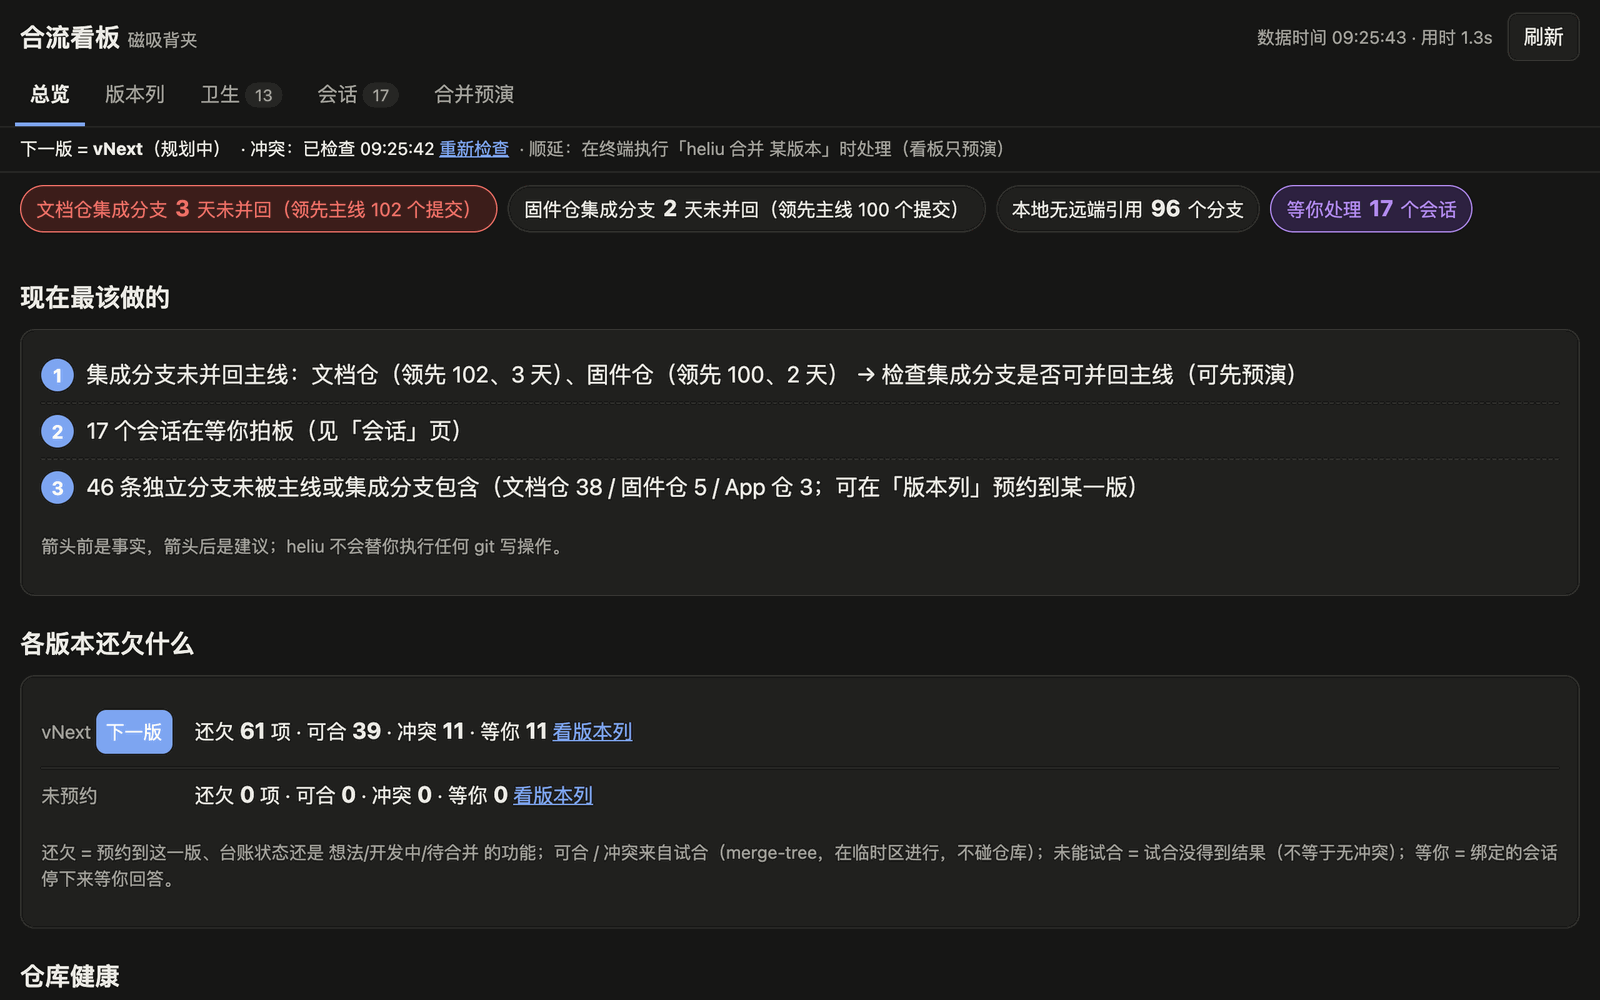
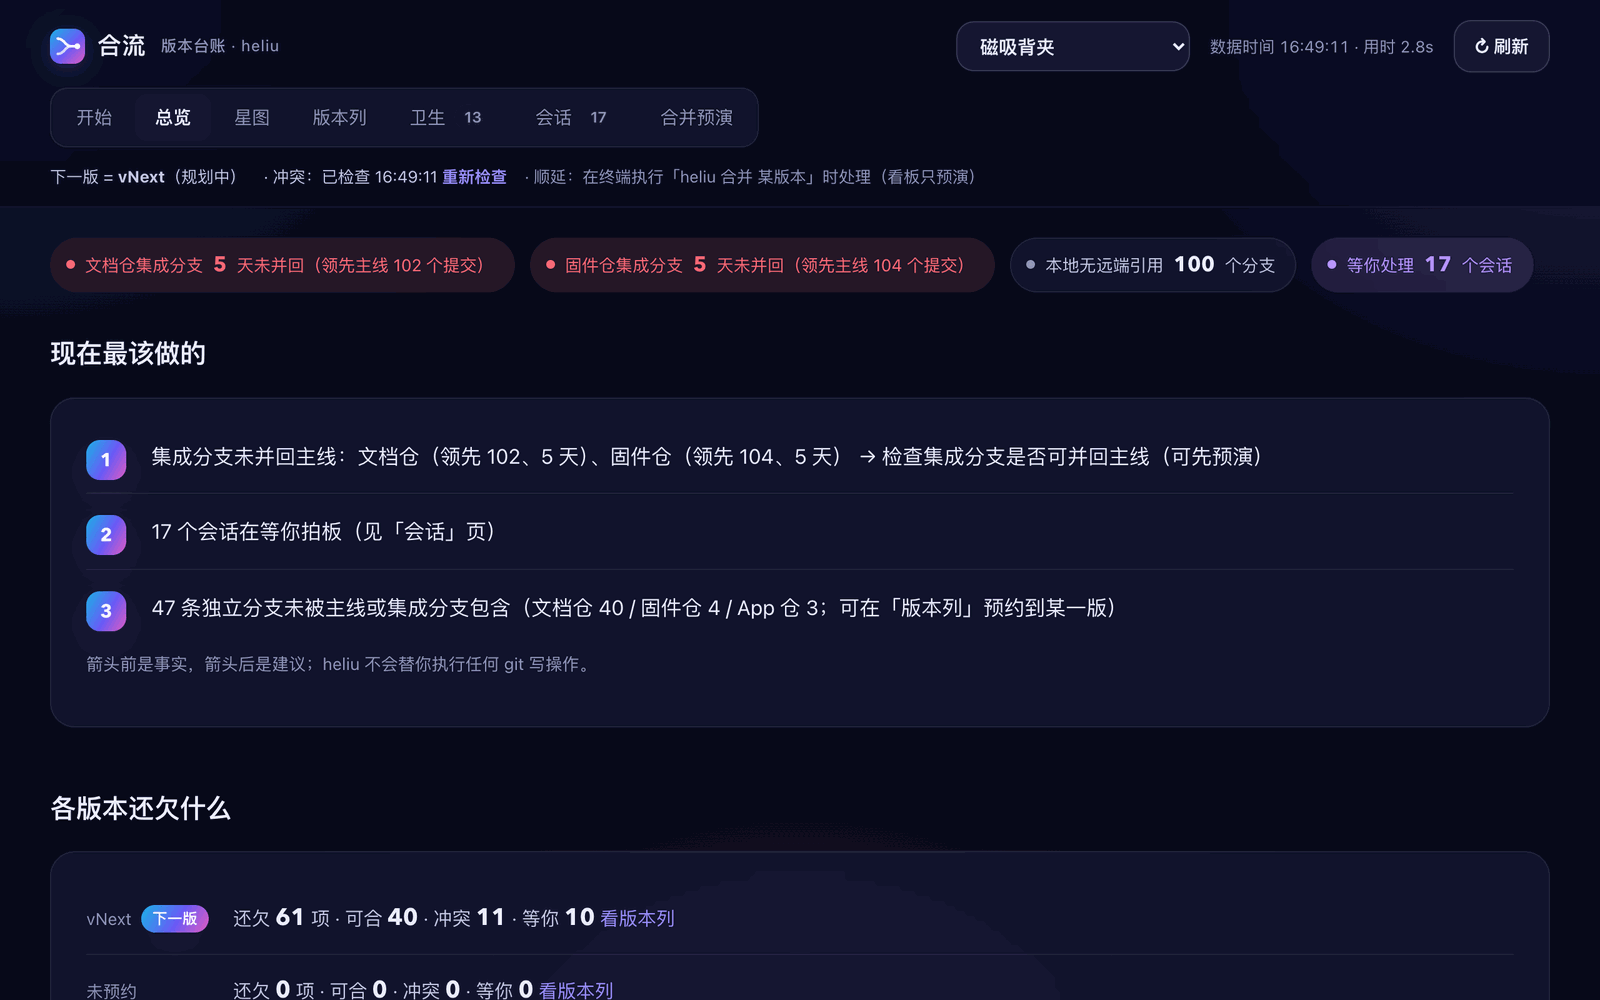
截图换成新视觉：开始页与星图改用 shots.py 实拍（真实磁吸背夹数据），README / 教程引用更新；截图脚本支持 --project

diff --git a/docs/assets/shots.py b/docs/assets/shots.py
@@ -13,6 +13,7 @@
 不点「登记」「生成合并单」「同步」，也不拖卡片，所以不会写台账。
 """
 import argparse
+from urllib.parse import quote
 import pathlib
 import tempfile
 
@@ -23,6 +24,8 @@ ASSETS = pathlib.Path(__file__).resolve().parent
 
 # 文件名, 页面, 视口宽, 视口高, 配色
 SHOTS = [
+    ("start-page-light.png", "start", 1280, 820, "light"),
+    ("galaxy-dark.png", "galaxy", 1440, 900, "dark"),
     ("board-overview-light.png", "overview", 1280, 800, "light"),
     ("board-overview-dark.png", "overview", 1280, 800, "dark"),
     ("board-columns-dark.png", "board", 1280, 800, "dark"),
@@ -51,6 +54,7 @@ def compress(src: pathlib.Path, dst: pathlib.Path, max_edge: int) -> None:
 def main() -> None:
     ap = argparse.ArgumentParser()
     ap.add_argument("--base-url", default="http://127.0.0.1:7788")
+    ap.add_argument("--project", default="磁吸背夹", help="截哪个项目（看板支持多项目，地址带 ?project=）")
     ap.add_argument("--wait", type=int, default=5000, help="页面加载后再等多少毫秒（看板打开时会自动试合一次）")
     a = ap.parse_args()
 
@@ -59,7 +63,7 @@ def main() -> None:
         for name, tab, w, h, scheme in SHOTS:
             ctx = browser.new_context(viewport={"width": w, "height": h}, device_scale_factor=2, color_scheme=scheme)
             page = ctx.new_page()
-            page.goto(f"{a.base_url}/#/{tab}", wait_until="networkidle")
+            page.goto(f"{a.base_url}/?project={quote(a.project)}#/{tab}", wait_until="networkidle")
             page.wait_for_timeout(a.wait)
             raw = pathlib.Path(tmp) / name
             page.screenshot(path=str(raw))

diff --git a/README.md b/README.md
@@ -51,8 +51,8 @@
 
 <table>
   <tr>
-    <td align="center" width="50%"><img src="docs/assets/start-page.jpg" alt="看板「开始」页：欢迎说明，第 1 步检查环境（git、bun、写保护沙箱等逐项打勾），还没选项目时其他页签置灰" /><br/><sub><b>开始</b>：五步上手，第一次打开就落在这里</sub></td>
-    <td align="center" width="50%"><img src="docs/assets/galaxy-dark.jpg" alt="星图：深色星空背景上，文档仓、固件仓两条泳道里分布着彩色星点，右侧是发光的 vNext 行星和「未预约」「已发布」，最新分支标着金色「★ 最新」" /><br/><sub><b>星图</b>：纵横看清每条分支在哪、离合并还差什么</sub></td>
+    <td align="center" width="50%"><img src="docs/assets/start-page-light.png" alt="看板「开始」页：欢迎说明，第 1 步检查环境（git、bun、写保护沙箱等逐项打勾），还没选项目时其他页签置灰" /><br/><sub><b>开始</b>：五步上手，第一次打开就落在这里</sub></td>
+    <td align="center" width="50%"><img src="docs/assets/galaxy-dark.png" alt="星图：深色星空背景上，文档仓、固件仓两条泳道里分布着彩色星点，右侧是发光的 vNext 行星和「未预约」「已发布」，最新分支标着金色「★ 最新」" /><br/><sub><b>星图</b>：纵横看清每条分支在哪、离合并还差什么</sub></td>
   </tr>
 </table>
 

diff --git a/docs/assets/README.md b/docs/assets/README.md
@@ -4,6 +4,8 @@
 
 | 文件 | 内容 | 怎么来的 |
 |---|---|---|
+| `start-page-light.png` | 看板「开始」页，浅色（README「不碰终端就能上手」） | `shots.py` |
+| `galaxy-dark.png` | 看板「星图」，深色 1440 宽（README 与教程） | `shots.py` |
 | `board-overview-light.png` / `board-overview-dark.png` | 看板「总览」，浅色 / 深色（README 首图，随系统配色切换） | `shots.py` |
 | `board-columns-dark.png` | 看板「版本列」，深色 | `shots.py` |
 | `board-release-light.png` | 看板「合并预演」，浅色 | `shots.py` |
@@ -19,7 +21,7 @@ bin/heliu board --project 磁吸背夹 --port 7788 --no-open
 
 # 终端 B：截图（约 40 秒）
 pip3 install playwright pillow     # 已装过可跳过
-python3 docs/assets/shots.py --base-url http://127.0.0.1:7788
+python3 docs/assets/shots.py --base-url http://127.0.0.1:7788 --project 磁吸背夹
 ```
 
 - 浏览器优先用本机 Google Chrome；没有 Chrome 时先跑 `python3 -m playwright install chromium`。

diff --git a/docs/教程.md b/docs/教程.md
@@ -182,7 +182,7 @@ bin/heliu 演练 v1.2 --project 磁吸背夹
 
 点一下星点会弹出详情：分支名、最后提交时间、落后多少、在等你什么。手机上不方便拖，就在详情里用下拉框和按钮做同样的事。
 
-![星图](assets/galaxy-dark.jpg)
+![星图](assets/galaxy-dark.png)
 
 ### 其他页
 
